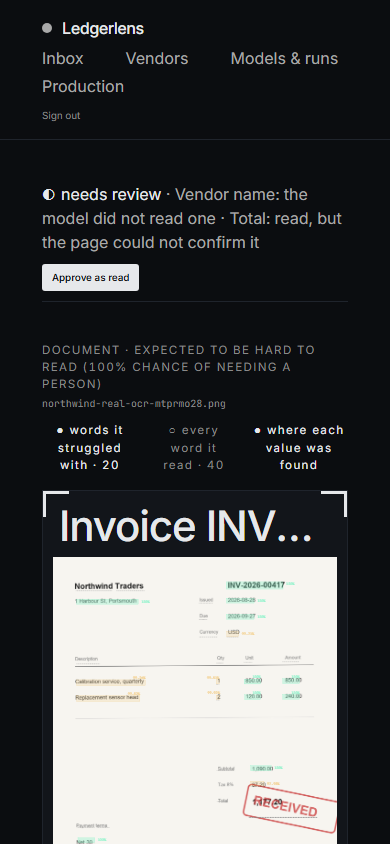
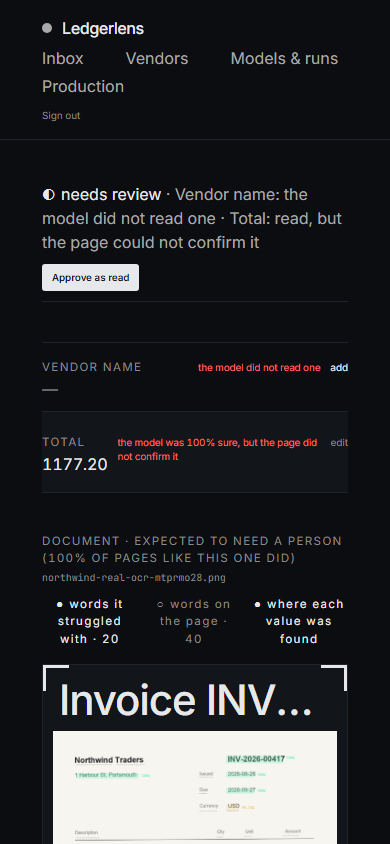
feat(web): gate 5, second half - the calm document (B) is the review screen
The second model's debate picked B for the clerk (verdict, both reasons and approve before any scroll, on the desktop fold and at 390 px) and killed C; the AI Builder took the pick and the debate's one change whole (chapter 16). The default document view is now B; A and C stay at ?view=a|c as the archived losers.

- a "needs you" strip under the status line, above the page: the missing required fields with their add, the required fields below the bar or unconfirmed on the page with their edit, nothing else; the strip's rows carry their own test ids (strip-*) because the same row also appears in the reference list below the page
- the status line is the verdict (data-testid, and "· n corrected" once approved)
- slop from the debate rewritten: "expected to need a person (n % of pages like this one did)" instead of "n % chance of needing a person" (document and inbox); "the model was n % sure, but the page did not confirm it" as one sentence instead of "100.00 % · not confirmed" on one line; "words on the page" instead of "every word it read"; the legend in customer words
- the row's "edit" button is now named "Edit <field>" (label in name; it shared "Correct <field>" with the input)
- a bug caught before render: the strip read the threshold before it was declared
- slice-c corrects the total from the strip; slice-a, slice-c green on a stub stack (own database, API on 8001, built web on 3001, mirroring CI); lint clean
[…]

diff --git a/apps/web/src/components/transparency-view.tsx b/apps/web/src/components/transparency-view.tsx
@@ -119,6 +119,9 @@ export function TransparencyView({ doc, variant = "a" }: { doc: DocumentDetailOu
   const lineEditing = editingField && editingField.line_index !== null ? editingField : undefined;
   const verdict = ex.verdict;
   const threshold = verdict?.threshold ?? 0.9;
+  // the header fields that block approval on their own: required and below the bar, or not
+  // confirmed on the page — the needs-you strip in the calm document (chapter 16)
+  const needsYou = header.filter((f) => toneFor(f, threshold) === "fault");
   const words = page.ocr_words ?? [];
   const hardWords = words.filter((w) => w.score < HARD_SPOT_SCORE);
   const corrected = ex.fields.filter((f) => f.corrections.length > 0).length;
@@ -194,9 +197,10 @@ export function TransparencyView({ doc, variant = "a" }: { doc: DocumentDetailOu
       {variant === "b" ? (
         // the calm document: the verdict as one status line above the page, never a panel
         <div className="flex flex-wrap items-baseline justify-between gap-3 border-b border-rule pb-3">
-          <p className="text-step-0 text-ink">
+          <p data-testid="verdict" className="text-step-0 text-ink">
             <span aria-hidden className="mr-2">{doc.approved || verdict?.decision === "auto_approved" ? "✓" : "◐"}</span>
             {doc.approved ? "approved by a person" : (verdict?.decision ?? doc.status).replaceAll("_", " ")}
+            {doc.approved && corrected > 0 ? <span className="text-ink-2"> · {corrected} corrected</span> : null}
             {!doc.approved && verdict?.reasons?.length ? (
               <span className="text-ink-2"> · {verdict.reasons.map((r) => reasonText(String(r.field ?? ""), String(r.why ?? ""))).join(" · ")}</span>
             ) : null}
@@ -206,7 +210,58 @@ export function TransparencyView({ doc, variant = "a" }: { doc: DocumentDetailOu
               {busy ? "…" : corrected > 0 ? `Approve with ${corrected} correction${corrected === 1 ? "" : "s"}` : "Approve as read"}
             </button>
           ) : null}
+          {error ? <p role="alert" className="w-full text-step--1 text-fault">{error}</p> : null}
         </div>
+      ) : null}
+      {variant === "b" && !doc.approved && (missingRequired.length > 0 || needsYou.length > 0) ? (
+        // the debate's one change (chapter 16): what needs a person, under the verdict, above the
+        // page, with its add or edit right there — nothing else in the strip
+        <ul data-testid="needs-you" className="rule-y border-y border-rule">
+          {missingRequired.map((n) => (
+            <li key={`strip-${n}`} className="grid grid-cols-[1fr_auto] items-baseline gap-3 py-3">
+              {editing === `strip-add:${n}` ? (
+                <form className="flex flex-col gap-1" onSubmit={(e) => { e.preventDefault(); void addField(n, draft); }}>
+                  <span className="micro">{fieldLabel(n)}</span>
+                  <div className="flex items-center gap-2">
+                    <input autoFocus aria-label={`Add ${fieldLabel(n)}`} value={draft} onChange={(e) => setDraft(e.target.value)} onKeyDown={(e) => e.key === "Escape" && setEditing(null)} placeholder="type what the page says" className="readout w-full rounded-[var(--radius)] border border-ink-2 bg-ground px-2 py-1 text-step-0 text-ink" />
+                    <button type="submit" disabled={busy || !draft.trim()} className="text-step--1 text-ink">save</button>
+                    <button type="button" onClick={() => setEditing(null)} className="text-step--1 text-ink-3">esc</button>
+                  </div>
+                </form>
+              ) : (
+                <span>
+                  <span className="micro">{fieldLabel(n)}</span>
+                  <span className="readout block text-step-0 text-ink-3">—</span>
+                </span>
+              )}
+              <span className="flex items-baseline gap-3">
+                <span className="readout text-step--1 text-fault">the model did not read one</span>
+                {editing !== `strip-add:${n}` ? (
+                  <button type="button" data-testid={`strip-add-${n}`} onClick={() => { setEditing(`strip-add:${n}`); setDraft(""); }} className="text-step--1 text-ink hover:text-ink-2" aria-label={`Add ${fieldLabel(n)}`}>
+                    add
+                  </button>
+                ) : null}
+              </span>
+            </li>
+          ))}
+          {needsYou.map((f) => (
+            <Readout
+              key={`strip-${f.id}`}
+              field={f}
+              threshold={threshold}
+              testIdPrefix="strip-"
+              selected={f.id === selected}
+              editing={editing === `strip:${f.id}`}
+              draft={draft}
+              busy={busy}
+              onSelect={() => setSelected(f.id)}
+              onEdit={() => { setEditing(`strip:${f.id}`); setDraft(f.value ?? ""); setSelected(f.id); }}
+              onDraft={setDraft}
+              onCancel={() => setEditing(null)}
+              onSave={() => void correct(f, draft)}
+            />
+          ))}
+        </ul>
       ) : null}
       {/* --- the page --- */}
       <section className="flex flex-col gap-4">
@@ -217,14 +272,14 @@ export function TransparencyView({ doc, variant = "a" }: { doc: DocumentDetailOu
             <p className="micro">
               Document{doc.vendor_name ? ` · ${doc.vendor_name}` : ""}
               {doc.difficulty != null
-                ? ` · expected to be ${doc.difficulty >= 0.5 ? "hard" : "easy"} to read (${pct(doc.difficulty)} chance of needing a person)`
+                ? ` · ${doc.difficulty >= 0.5 ? "expected to need a person" : "expected to be easy"} (${pct(doc.difficulty)} of pages like this one did)`
                 : ""}
             </p>
             <p className="mt-1 truncate font-mono text-step--1 text-ink-3">{doc.original_filename}</p>
           </div>
           <div className="micro flex items-center gap-4" role="group" aria-label="Evidence layers">
             <LayerToggle id="hard" on={layers.has("hard")} onClick={() => toggle("hard")} label={`words it struggled with · ${hardWords.length}`} disabled={words.length === 0} />
-            <LayerToggle id="words" on={layers.has("words")} onClick={() => toggle("words")} label={`every word it read · ${words.length}`} disabled={words.length === 0} />
+            <LayerToggle id="words" on={layers.has("words")} onClick={() => toggle("words")} label={`words on the page · ${words.length}`} disabled={words.length === 0} />
             <LayerToggle id="fields" on={layers.has("fields")} onClick={() => toggle("fields")} label="where each value was found" />
           </div>
         </div>
@@ -349,12 +404,11 @@ export function TransparencyView({ doc, variant = "a" }: { doc: DocumentDetailOu
           </p>
         </div>
         <p className="text-step--1 text-ink-3">
-          Boxes show where each value was found on the page, with its confidence beside it.
-          Green: at or above the {pct(threshold, 2)} bar. Amber: below the bar on a field that cannot
-          block approval on its own — the two decimals show why. Red: below the bar on a required
-          field. A value the model read but the page could not confirm (a stamp over it, for
-          instance) has no box — it is listed in red in the fields panel. A dotted grey underline
-          is a hard spot: a word the reader struggled with (score under {pct(HARD_SPOT_SCORE)}).
+          Boxes show where each value was found on the page, with how sure the model was beside it.
+          Green: sure enough to approve on its own. Amber: worth a glance, but it cannot hold up the
+          invoice by itself. Red: a person decides. A value the page could not confirm (a stamp over
+          it, for instance) has no box and is listed in red. A dotted grey underline is a word the
+          reader struggled with.
         </p>
       </section>
 
@@ -743,9 +797,13 @@ function Readout({
   onDraft,
   onCancel,
   onSave,
+  testIdPrefix = "",
 }: {
   field: FieldOut;
   threshold: number;
+  // the same row can appear twice on the calm document — in the needs-you strip and in the
+  // reference list — so the strip's copy carries its own test ids
+  testIdPrefix?: string;
   selected: boolean;
   editing: boolean;
   draft: string;
@@ -764,7 +822,7 @@ function Readout({
       <div className="grid grid-cols-[1fr_auto] items-baseline gap-3 py-4">
         {editing ? (
           <form
-            data-testid={`readout-${field.name}`}
+            data-testid={`${testIdPrefix}readout-${field.name}`}
             className="flex flex-col gap-1"
             onSubmit={(e) => {
               e.preventDefault();
@@ -786,7 +844,7 @@ function Readout({
             </div>
           </form>
         ) : (
-          <button type="button" onClick={onSelect} data-testid={`readout-${field.name}`} aria-pressed={selected} className="text-left">
+          <button type="button" onClick={onSelect} data-testid={`${testIdPrefix}readout-${field.name}`} aria-pressed={selected} className="text-left">
             <span className="micro">{fieldLabel(field.name)}</span>
             <span className="readout block text-step-0 text-ink">
               {field.value ?? "—"}
@@ -798,8 +856,15 @@ function Readout({
         )}
         <span className="flex items-baseline gap-3">
           <span className={`readout text-step--1 ${wasCorrected ? "text-ink-3" : TONE_TEXT[tone]}`}>
-            {wasCorrected ? "corrected" : tone === "signal" ? pct(conf) : pct(conf, 2)}
-            {!field.grounded && !wasCorrected ? " · not confirmed on the page" : ""}
+            {/* "sure, but the page did not confirm it" as one sentence, never "100 % · not
+                confirmed" on one line (chapter 16 slop check) */}
+            {wasCorrected
+              ? "corrected"
+              : !field.grounded
+                ? `the model was ${pct(conf)} sure, but the page did not confirm it`
+                : tone === "signal"
+                  ? pct(conf)
+                  : pct(conf, 2)}
           </span>
           {field.stability != null ? <StabilityRing value={field.stability} /> : null}
           {!editing ? (
@@ -808,11 +873,13 @@ function Readout({
             <button
               type="button"
               onClick={onEdit}
-              data-testid={`correct-${field.name}`}
+              data-testid={`${testIdPrefix}correct-${field.name}`}
               // always visible on a value below the bar (there is something to act on); on the
               // hovered, focused or selected row otherwise (brief critic r16 vs craft critic r8)
               className={`text-step--1 text-ink-3 transition-opacity hover:text-ink group-hover:opacity-100 group-focus-within:opacity-100 ${selected || tone !== "signal" ? "opacity-100" : "opacity-0"}`}
-              aria-label={`Correct ${fieldLabel(field.name)}`}
+              // the accessible name starts with the visible text (label in name); "Correct …" is
+              // the input's name, and a button and an input must not share one
+              aria-label={`Edit ${fieldLabel(field.name)}`}
             >
               edit
             </button>

diff --git a/apps/web/src/app/(app)/inbox/page.tsx b/apps/web/src/app/(app)/inbox/page.tsx
@@ -116,7 +116,7 @@ export default async function InboxPage(props: PageProps<"/inbox">) {
                 <strong className="font-medium text-ink">What it is, in plain words.</strong>{" "}
                 <span className="font-mono text-ink">{next.original_filename}</span> from{" "}
                 {next.vendor_name ?? "a vendor not yet known"}
-                {next.difficulty != null ? `, expected to be ${next.difficulty >= 0.5 ? "hard" : "easy"} to read (${Math.round(next.difficulty * 100)} % chance of needing a person)` : ""}
+                {next.difficulty != null ? `, ${next.difficulty >= 0.5 ? "expected to need a person" : "expected to be easy"} (${Math.round(next.difficulty * 100)} % of pages like this one did)` : ""}
                 . Green marks sit at the bar, amber below it, red where a person is needed.
               </p>
               <p>

diff --git a/apps/web/src/app/(app)/documents/[id]/page.tsx b/apps/web/src/app/(app)/documents/[id]/page.tsx
@@ -6,11 +6,11 @@ import type { DocumentDetailOut } from "@/lib/types";
 
 export default async function DocumentPage(props: PageProps<"/documents/[id]">) {
   const { id } = await props.params;
-  // gate 5, second half (chapter 16): ?view=a|b|c selects a review-screen direction; the default
-  // is the one the AI Builder picks
+  // gate 5, second half (chapter 16): the AI Builder picked B, the calm document; A and C stay
+  // reachable as the archived losers
   const sp = await props.searchParams;
-  const v = typeof sp?.view === "string" ? sp.view : "a";
-  const variant: ReviewVariant = v === "b" || v === "c" ? v : "a";
+  const v = typeof sp?.view === "string" ? sp.view : "b";
+  const variant: ReviewVariant = v === "a" || v === "c" ? v : "b";
   let doc: DocumentDetailOut;
   try {
     doc = await api<DocumentDetailOut>(`/documents/${id}`);

diff --git a/apps/web/e2e/slice-c.spec.ts b/apps/web/e2e/slice-c.spec.ts
@@ -31,7 +31,11 @@ test("correct a field, approve, and see the correction persist", async ({ page }
   await page.getByTestId("document-row").first().click();
   await expect(page.getByTestId("verdict")).toContainText(/needs review/i);
 
-  await page.getByTestId("correct-total").click();
+  // gate 5 (chapter 16): the default review screen is the calm document, and what needs a
+  // person sits in a strip under the verdict with its edit right there — the correction is
+  // made from the strip, above the page, never from the reference list below it
+  await expect(page.getByTestId("needs-you")).toContainText(/total/i);
+  await page.getByTestId("strip-correct-total").click();
   const input = page.getByLabel("Correct total");
   await input.fill("1,171.20");
   await input.press("Enter");

diff --git a/story/16-gate-5-review-screen.md b/story/16-gate-5-review-screen.md
@@ -16,12 +16,27 @@ One component, three layouts, the same rows and the same actions — correct, ad
 
 ## The second model's debate
 
-*(pending)*
+*(an Opus instance with fresh context: the nine renders and `bar.md`; asked which wins for the clerk's four jobs — know the verdict and why, see where and how sure, see what was checked, act — and on a phone)*
+
+**Winner for the clerk: B** — "the only one of the three that puts the verdict, both plain-language reasons and the approve action in front of her before she scrolls anything, on the desktop fold and at 390 px." **Kill: C** — at 1440 it wraps its own verdict and truncates an address; "its phone fold is byte-for-byte A's, so it has no small form of itself, only a fallback."
+
+- **A** — for: verdict and first fields above the fold, every box beside its value. Against: dead vertical voids in the right column "that read as loading, not calm". Breaks: job 4 on the phone — approve and add are off-screen.
+- **B** — for: one status line carries the verdict and both reasons in a single read, approve beside it, "the largest and cleanest specimen of the three". Against: the properties list starts ~1,900 px down, so correcting a value means scrolling away from its evidence. Breaks: job 2 as a paired act — where and how-sure never on screen together.
+- **C** — for: "the only layout that answers *where did this come from* without a glance elsewhere". Against: the pins read as a second properties list, not as leaders; three columns at 1440 leave voids and truncation. Breaks: jobs 1 and 4 on the phone entirely.
+- **Phone test:** B works — verdict, reasons and Approve above the fold at 390 px, add and edit one scroll down. A and C do not.
+- **Slop check:** "100 % chance of needing a person" (a probability with no population); "TOTAL 100.00 % · not confirmed on the page" (fully confident and not confirmed, on one line); the amber legend sentence; "every word it read · 40" ("forty words on a whole invoice cannot be right" — it is, the invoice has forty; the label misleads); the audit footer's version names (kept by rule 11).
+- **One change:** a "needs you" strip directly under the status line, above the page — the missing vendor name with its add, the unconfirmed total with its edit, nothing else — "so job 4 sits at the top with job 1, and the list below the page becomes the reference it should be."
 
 ## AI Builder
 
-*(pending — after the debate)*
+*"B — and I would have picked it before the debate did, because it is the only one that reads like a document and not like a cockpit, and Linear was my reference for exactly that reason. Take the debate's one change whole: the things that need me, under the verdict, above the page, with their add and edit right there. Nothing else in that strip. Keep the percentages beside the boxes on the page — that is the 'where' and the 'how sure' together, and B already has it; the list below is the reference, as the debate says. Kill C; archive A. And clean the slop it found: '100 % chance of needing a person' is not a sentence a person says — 'expected to need a person' is. 'One hundred percent sure and not confirmed' on one line is a contradiction until you write it as one: 'the model was sure, but the page did not confirm it'. 'Every word it read' → 'words on the page'. Do it, make B the default, and show me the phone."*
+
+*Director's overrides: none at the time of writing; the Director may still override in one line.*
+
+## Fable
+
+B is the default review screen. Built: the needs-you strip under the status line with add and edit inline; the confidence labels stay on the page; the four slop lines rewritten; A and C remain reachable at `?view=a` and `?view=c` as the archived losers. Rendered at desktop and phone; the browser suite re-run against the new default.
 
 ## Gate
 
-`WAITING ON YOU (judgement only)` — the Director may override the character's pick.
+Picked by the character; the Director may override. Tag `gate-5-review` on the default's landing.
